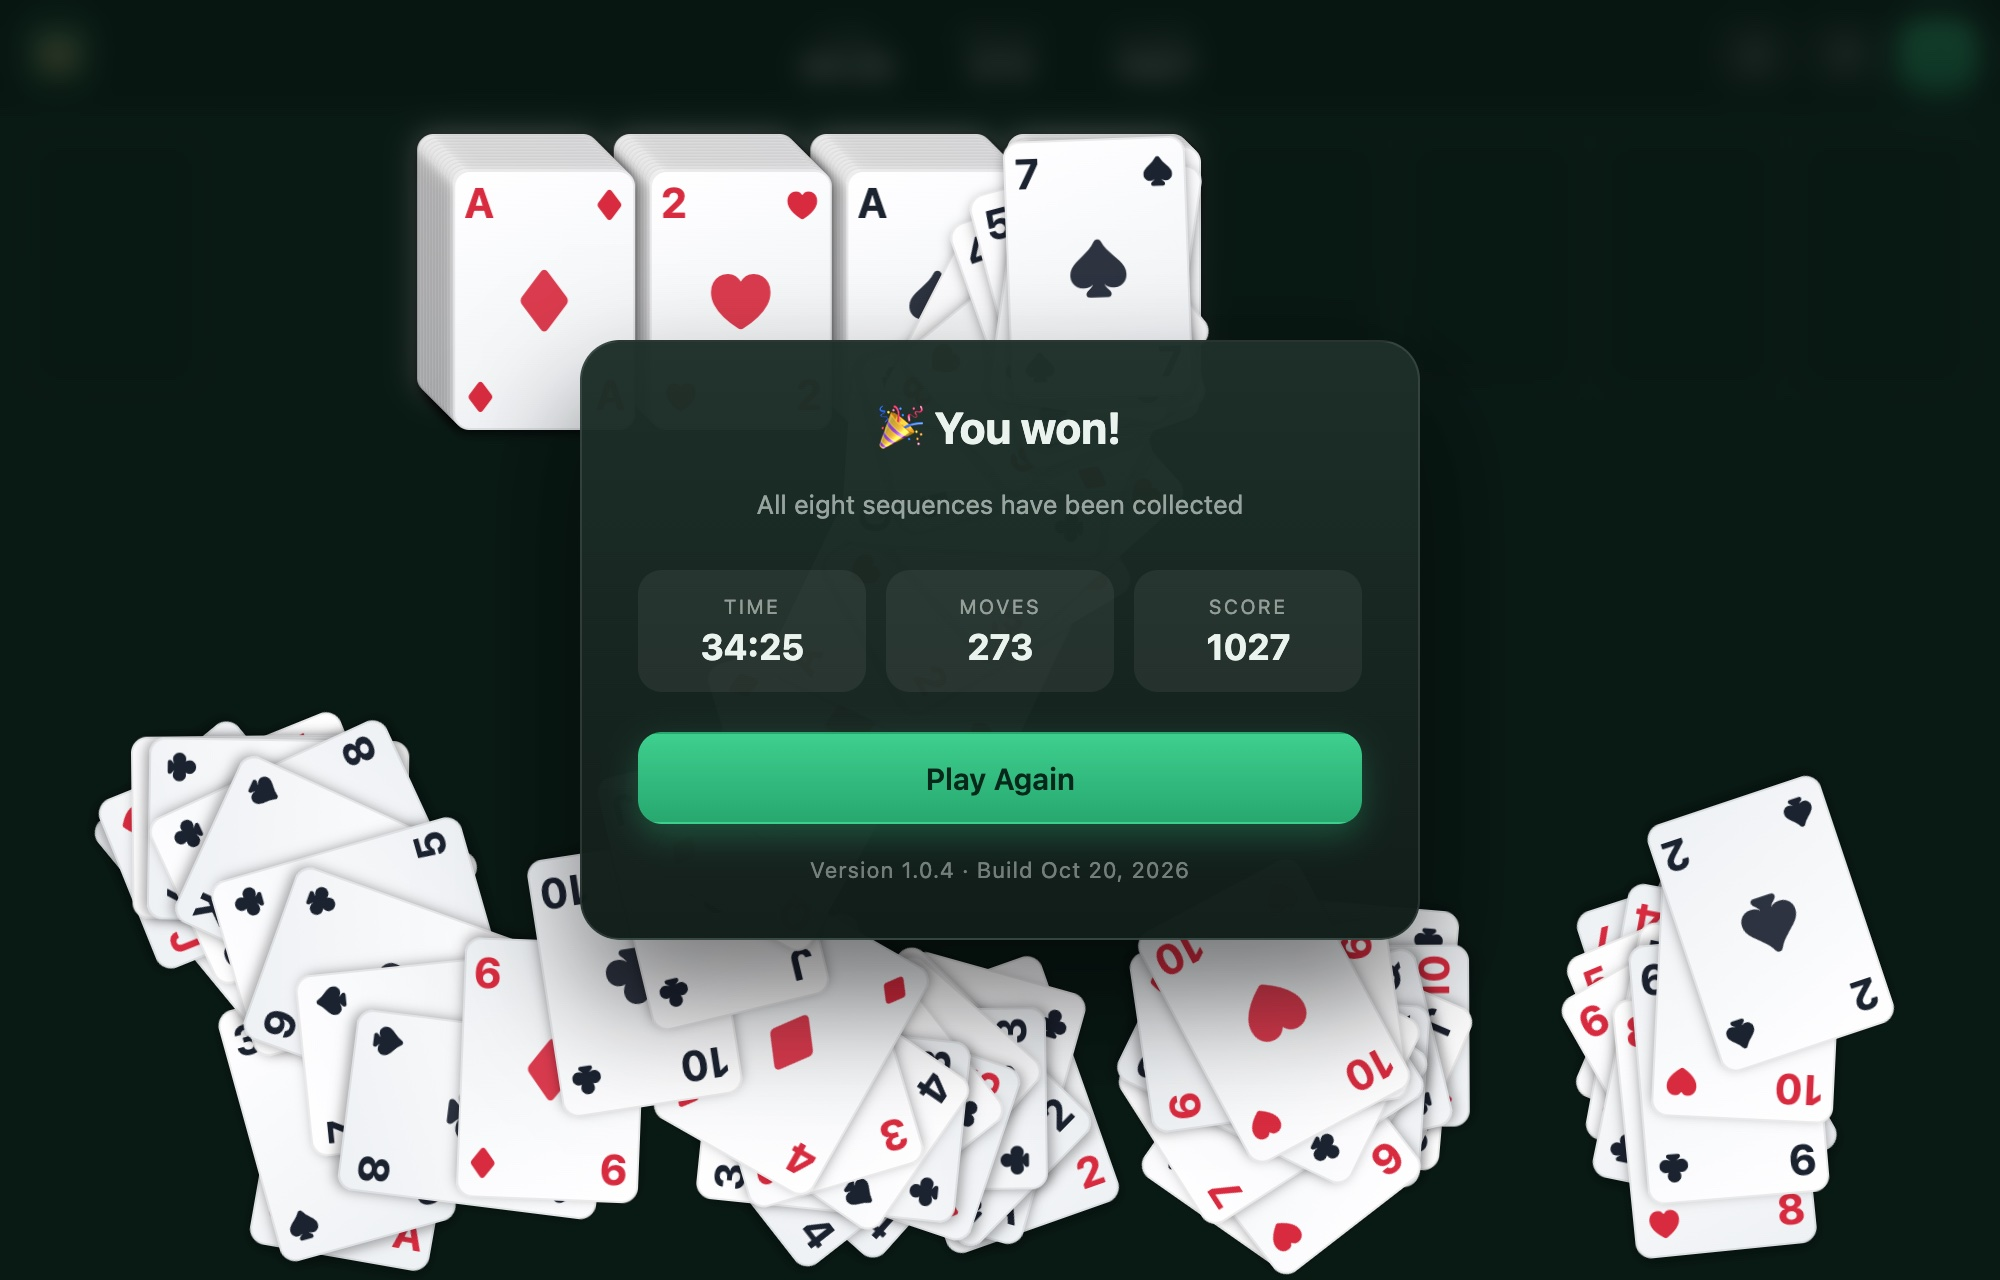
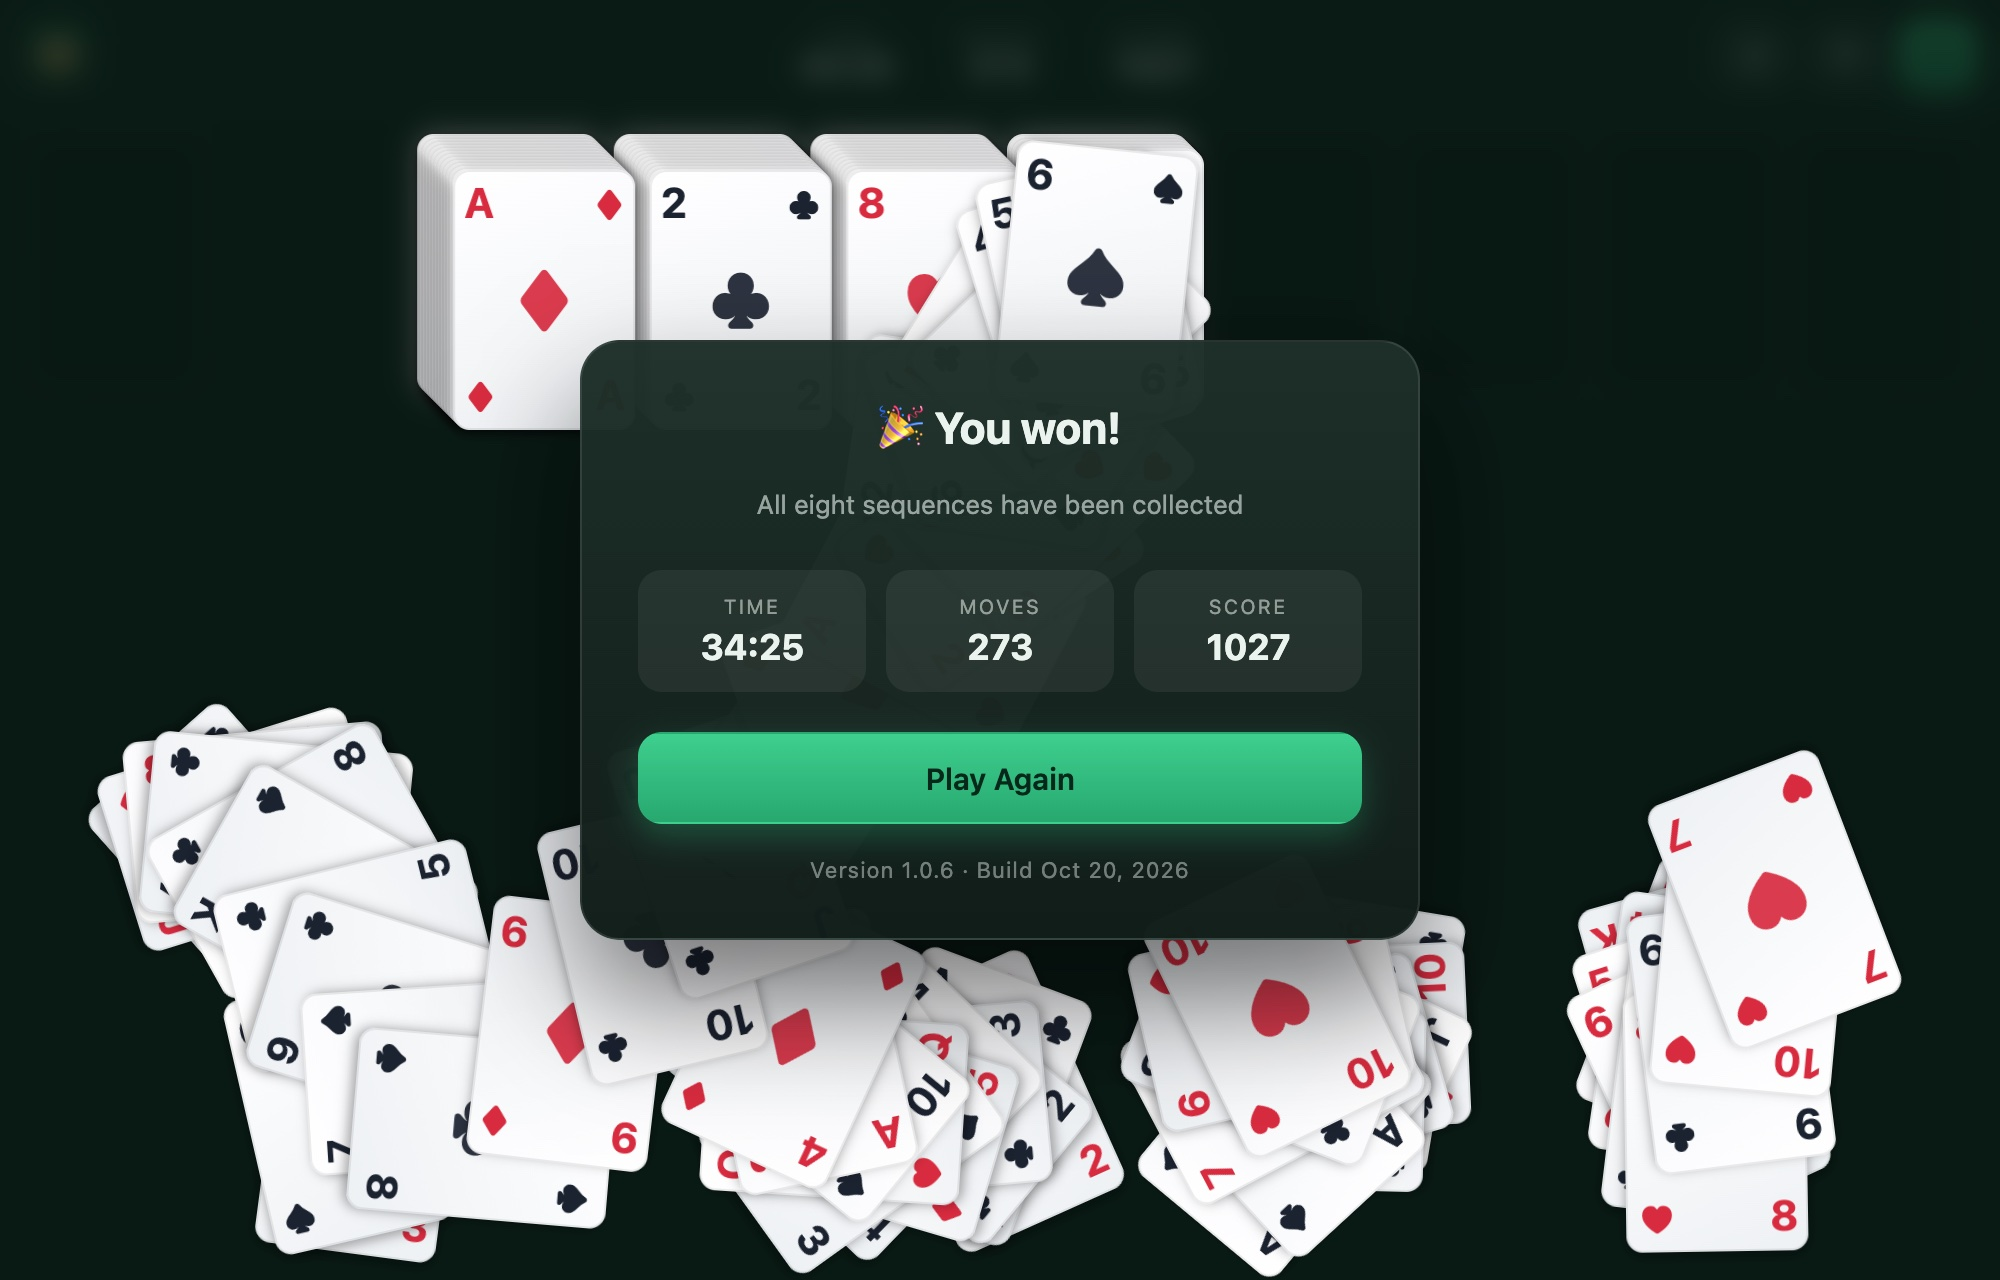
Release 1.0.6: optional card aid, opaque header
- add an optional assist that dims tableau cards which cannot be moved,
  toggled in the info dialog and stored in localStorage
- make the header opaque and drop its backdrop blur, which removes the
  transparent gradient veil on iOS 26/27
- document the assist in the README
- version 1.0.6, service worker cache bumped to spider-sunrise-v8

diff --git a/i18n.js b/i18n.js
@@ -34,6 +34,7 @@
     "app.footer": "Version {version} · Build {build}",
     "app.name": "Spider Solitaire: Sunrise",
     "info.text": "The cards must be sorted in the ten tableau columns. The goal is to build eight complete sequences, each running from King down to Ace. A complete King-to-Ace sequence in a single suit is moved automatically to one of the eight foundation frames at the top. The remaining cards can be dealt in batches from the top-left corner.",
+    "info.assist": "Dim cards that cannot be moved",
     "info.close": "Close",
     "info.install": "Install app",
     "info.source": "Source on GitHub",
@@ -72,6 +73,7 @@
     "app.footer": "Version {version} · Build {build}",
     "app.name": "Spider Solitaire: Sunrise",
     "info.text": "Die Karten müssen in den zehn Tableau-Spalten geordnet werden. Ziel ist es, acht vollständige Sequenzen zu bilden, jeweils vom König bis zum Ass. Eine vollständige K-A-Sequenz in einer einzigen Farbe wird automatisch in einen der acht Ablagerahmen oben verschoben. Die restlichen Karten können stapelweise aus der oberen linken Ecke entnommen werden.",
+    "info.assist": "Nicht verschiebbare Karten abdunkeln",
     "info.close": "Schließen",
     "info.install": "App installieren",
     "info.source": "Quellcode auf GitHub",
@@ -110,6 +112,7 @@
     "app.footer": "Version {version} · Compilation {build}",
     "app.name": "Spider Solitaire: Sunrise",
     "info.text": "Les cartes doivent être rangées dans les dix colonnes du tableau. Le but est de former huit séquences complètes, chacune allant du Roi à l'As. Une séquence complète du Roi à l'As dans une seule couleur est déplacée automatiquement vers l'un des huit emplacements de fondation en haut. Les cartes restantes peuvent être distribuées par paquets depuis le coin supérieur gauche.",
+    "info.assist": "Assombrir les cartes non déplaçables",
     "info.close": "Fermer",
     "info.install": "Installer l'application",
     "info.source": "Code source sur GitHub",
@@ -148,6 +151,7 @@
     "app.footer": "Versión {version} · Compilación {build}",
     "app.name": "Spider Solitaire: Sunrise",
     "info.text": "Las cartas deben ordenarse en las diez columnas del tablero. El objetivo es formar ocho secuencias completas, cada una desde el Rey hasta el As. Una secuencia completa de Rey a As en un solo palo se mueve automáticamente a uno de los ocho marcos de fundación de arriba. Las cartas restantes se pueden repartir por grupos desde la esquina superior izquierda.",
+    "info.assist": "Atenuar las cartas que no se pueden mover",
     "info.close": "Cerrar",
     "info.install": "Instalar la aplicación",
     "info.source": "Código en GitHub",
@@ -186,6 +190,7 @@
     "app.footer": "Versione {version} · Build {build}",
     "app.name": "Spider Solitaire: Sunrise",
     "info.text": "Le carte devono essere ordinate nelle dieci colonne del tableau. L'obiettivo è formare otto sequenze complete, ciascuna dal Re all'Asso. Una sequenza completa dal Re all'Asso in un solo seme viene spostata automaticamente in uno degli otto riquadri di fondazione in alto. Le carte rimanenti possono essere distribuite a gruppi dall'angolo in alto a sinistra.",
+    "info.assist": "Attenua le carte che non si possono spostare",
     "info.close": "Chiudi",
     "info.install": "Installa l'app",
     "info.source": "Codice su GitHub",
@@ -224,6 +229,7 @@
     "app.footer": "Versão {version} · Compilação {build}",
     "app.name": "Spider Solitaire: Sunrise",
     "info.text": "As cartas devem ser organizadas nas dez colunas do tableau. O objetivo é formar oito sequências completas, cada uma do Rei ao Ás. Uma sequência completa de Rei a Ás em um único naipe é movida automaticamente para um dos oito quadros de fundação no topo. As cartas restantes podem ser distribuídas em grupos a partir do canto superior esquerdo.",
+    "info.assist": "Escurecer as cartas que não podem ser movidas",
     "info.close": "Fechar",
     "info.install": "Instalar a aplicação",
     "info.source": "Código no GitHub",
@@ -262,6 +268,7 @@
     "app.footer": "Versie {version} · Build {build}",
     "app.name": "Spider Solitaire: Sunrise",
     "info.text": "De kaarten moeten in de tien tableau-kolommen worden gerangschikt. Het doel is om acht volledige reeksen te vormen, telkens van Heer tot Aas. Een volledige reeks van Heer tot Aas in één kleur wordt automatisch naar een van de acht funderingsvakken boven verplaatst. De overige kaarten kunnen in groepjes uit de linkerbovenhoek worden gedeeld.",
+    "info.assist": "Niet-verplaatsbare kaarten donkerder maken",
     "info.close": "Sluiten",
     "info.install": "App installeren",
     "info.source": "Broncode op GitHub",

diff --git a/script.js b/script.js
@@ -41,6 +41,12 @@
   let uid = 1;
   let difficulty = 1;
   let installPrompt = null;
+  let assist = false;
+  try {
+    assist = localStorage.getItem("spider-sunrise-assist") === "1";
+  } catch (err) {
+    assist = false;
+  }
 
   const cardEls = new Map();
   let currentPositions = new Map();
@@ -283,6 +289,7 @@
       foundY: pad,
     };
 
+    applyAssist();
     layoutSlots();
   }
 
@@ -443,6 +450,17 @@
         el._moveEnd = null;
       }, 320);
     }, delay);
+  }
+
+  function applyAssist() {
+    if (!state) return;
+    state.columns.forEach((col) => {
+      col.forEach((card, i) => {
+        const el = cardEls.get(card.id);
+        if (!el) return;
+        el.classList.toggle("dim", assist && card.faceUp && !isRun(col, i));
+      });
+    });
   }
 
   function isRun(col, i) {
@@ -1392,6 +1410,9 @@
       '<img src="icons/favicon.svg" class="modal-logo" alt="" width="68" height="68" />' +
       "<h2>Spider Solitaire: Sunrise</h2>" +
       '<p class="about">' + t("info.text") + "</p>" +
+      '<label class="opt"><span class="opt-label">' + t("info.assist") + "</span>" +
+      '<span class="switch"><input type="checkbox" id="assist-toggle"' + (assist ? " checked" : "") +
+      ' /><span class="track"></span></span></label>' +
       '<button class="btn primary big" id="btn-close-info">' + t("info.close") + "</button>" +
       (installPrompt ? '<button class="btn big" id="btn-install">' + t("info.install") + "</button>" : "") +
       (ver ? '<div class="app-version">' + ver + "</div>" : "") +
@@ -1406,6 +1427,13 @@
       if (wasRunning && state) ensureTimer();
     };
     overlay.querySelector("#btn-close-info").addEventListener("click", () => infoClose());
+    overlay.querySelector("#assist-toggle").addEventListener("change", (e) => {
+      assist = e.target.checked;
+      try {
+        localStorage.setItem("spider-sunrise-assist", assist ? "1" : "0");
+      } catch (err) {}
+      applyAssist();
+    });
     const installBtn = overlay.querySelector("#btn-install");
     if (installBtn) {
       installBtn.addEventListener("click", async () => {

diff --git a/style.css b/style.css
@@ -81,9 +81,7 @@ body.menu-open #board {
   justify-content: space-between;
   gap: 16px;
   padding: clamp(8px, 1.1vw, 10px) var(--gutter, 18px);
-  background: rgba(0, 0, 0, 0.28);
-  backdrop-filter: blur(12px);
-  -webkit-backdrop-filter: blur(12px);
+  background: #15372b;
   border-bottom: 1px solid rgba(255, 255, 255, 0.08);
   flex: none;
   z-index: 10;
@@ -369,6 +367,14 @@ body.menu-open #board {
   --card-edge: 1px;
 }
 
+.card.dim .front::after {
+  content: "";
+  position: absolute;
+  inset: 0;
+  background: rgba(6, 16, 13, 0.34);
+  pointer-events: none;
+}
+
 #board.compact .front .rank {
   font-size: calc(var(--cw, 80px) * 0.32);
 }
@@ -534,6 +540,74 @@ body.menu-open #board {
   font-size: 13.5px;
   line-height: 1.55;
   margin-bottom: 22px;
+}
+
+.opt {
+  display: flex;
+  align-items: center;
+  justify-content: space-between;
+  gap: 14px;
+  margin-bottom: 16px;
+  padding: 11px 14px;
+  border-radius: 12px;
+  border: 1px solid rgba(255, 255, 255, 0.1);
+  background: rgba(255, 255, 255, 0.04);
+  font-size: 13px;
+  line-height: 1.35;
+  color: rgba(234, 243, 238, 0.82);
+  text-align: left;
+  cursor: pointer;
+}
+
+.switch {
+  position: relative;
+  flex: none;
+  width: 40px;
+  height: 22px;
+}
+
+.switch input {
+  position: absolute;
+  inset: 0;
+  width: 100%;
+  height: 100%;
+  margin: 0;
+  opacity: 0;
+  cursor: pointer;
+}
+
+.switch .track {
+  display: block;
+  position: absolute;
+  inset: 0;
+  border-radius: 999px;
+  background: rgba(255, 255, 255, 0.16);
+  transition: background 0.18s ease;
+}
+
+.switch .track::after {
+  content: "";
+  position: absolute;
+  top: 3px;
+  left: 3px;
+  width: 16px;
+  height: 16px;
+  border-radius: 50%;
+  background: #eaf3ee;
+  transition: transform 0.18s ease, background 0.18s ease;
+}
+
+.switch input:checked + .track {
+  background: var(--accent);
+}
+
+.switch input:checked + .track::after {
+  transform: translateX(18px);
+  background: #0b2b22;
+}
+
+.switch input:focus-visible + .track {
+  box-shadow: 0 0 0 2px rgba(62, 207, 142, 0.5);
 }
 
 .difficulty {

diff --git a/sw.js b/sw.js
@@ -1,4 +1,4 @@
-const CACHE = "spider-sunrise-v7";
+const CACHE = "spider-sunrise-v8";
 
 const ASSETS = [
   "./",

diff --git a/version.js b/version.js
@@ -1,4 +1,4 @@
 window.APP_INFO = {
-  version: "1.0.5",
+  version: "1.0.6",
   build: "2026-10-20",
 };

diff --git a/README.md b/README.md
@@ -60,6 +60,13 @@ Choose a difficulty from the start menu:
 - Each completed sequence grants **+100 points**.
 - A timer and a move counter are shown in the top bar.
 
+## Assistance
+
+An optional game aid can dim the cards you cannot move. Open the info dialog by clicking the spider logo in the top-left corner and turn on **Dim cards that cannot be moved**.
+
+- A card can only be lifted together with the cards below it if they form a descending run in the same suit. Cards in the tableau that cannot be lifted this way are darkened slightly.
+- The setting is stored in the browser and applies to current and future games. It is off by default.
+
 ## Languages
 
 The UI detects the browser language on load and falls back to English:
